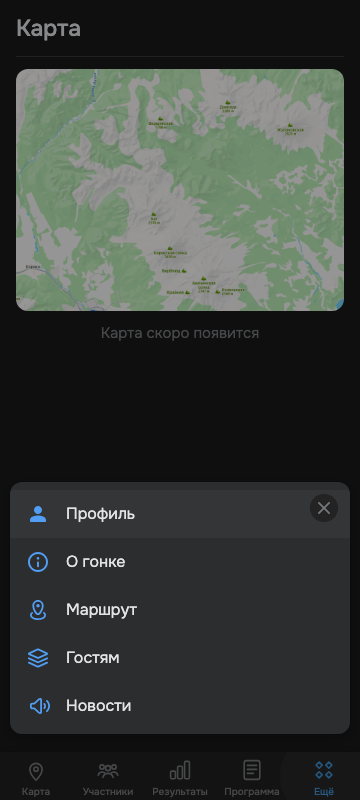
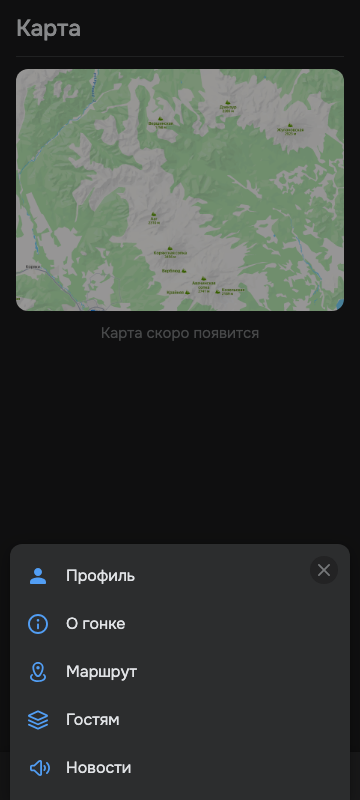
fix(v2): шторка Ещё прижата к низу

Changed region(s): [[0.0306, 0.5938, 0.9778, 1.0]]

diff --git a/src/index.css b/src/index.css
@@ -664,7 +664,7 @@ body {
   display: flex;
   align-items: flex-end;
   justify-content: center;
-  padding: 12px 10px calc(var(--app-tabbar-height) + 10px);
+  padding: 0 10px 0;
   pointer-events: none;
 }
 
@@ -686,11 +686,11 @@ body {
   position: relative;
   z-index: 1;
   width: 100%;
-  max-width: 340px;
-  max-height: min(72vh, calc(100% - 24px));
-  padding: 8px 0 4px;
+  max-width: min(100%, 360px);
+  max-height: min(72vh, 100%);
+  padding: 8px 0 calc(8px + env(safe-area-inset-bottom, 0px));
   overflow: auto;
-  border-radius: 12px;
+  border-radius: 12px 12px 0 0;
   transform: translateY(100%);
   transition: transform 250ms ease-out;
   pointer-events: auto;
